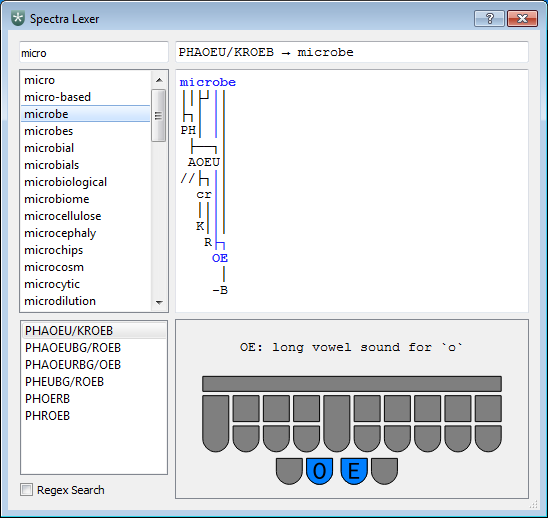
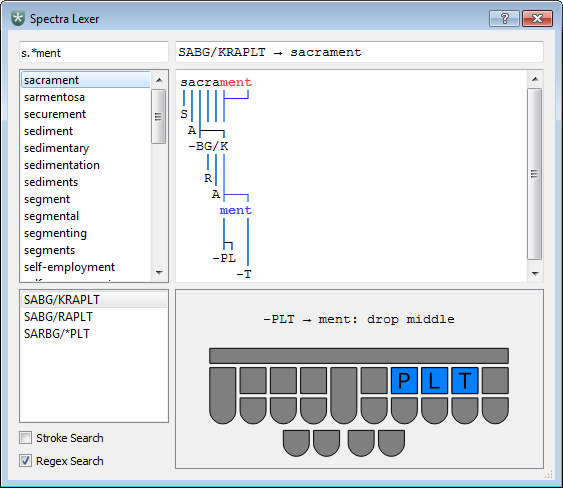
Add changelog and update screenshot

Changed region(s): [[0.0, 0.0, 1.0, 1.0], [0.4343, 0.8607, 0.4653, 0.8914], [0.3723, 0.8607, 0.4033, 0.8914]]

diff --git a/README.md b/README.md
@@ -3,7 +3,7 @@ Spectra Lexer
 
 The Spectra Steno Lexer is an experimental tool for analyzing and matching patterns of steno keys against the text they produce using various rules from steno theories (mostly Plover theory). It also has advanced search functions for steno dictionaries which have been mostly lacking in Plover up to this point.
 
-![Screenshot](doc/screenshot.png)
+![Screenshot](https://raw.githubusercontent.com/fourshade/spectra_lexer/master/doc/screenshot.png)
 
 Source Installation
 -------------------
